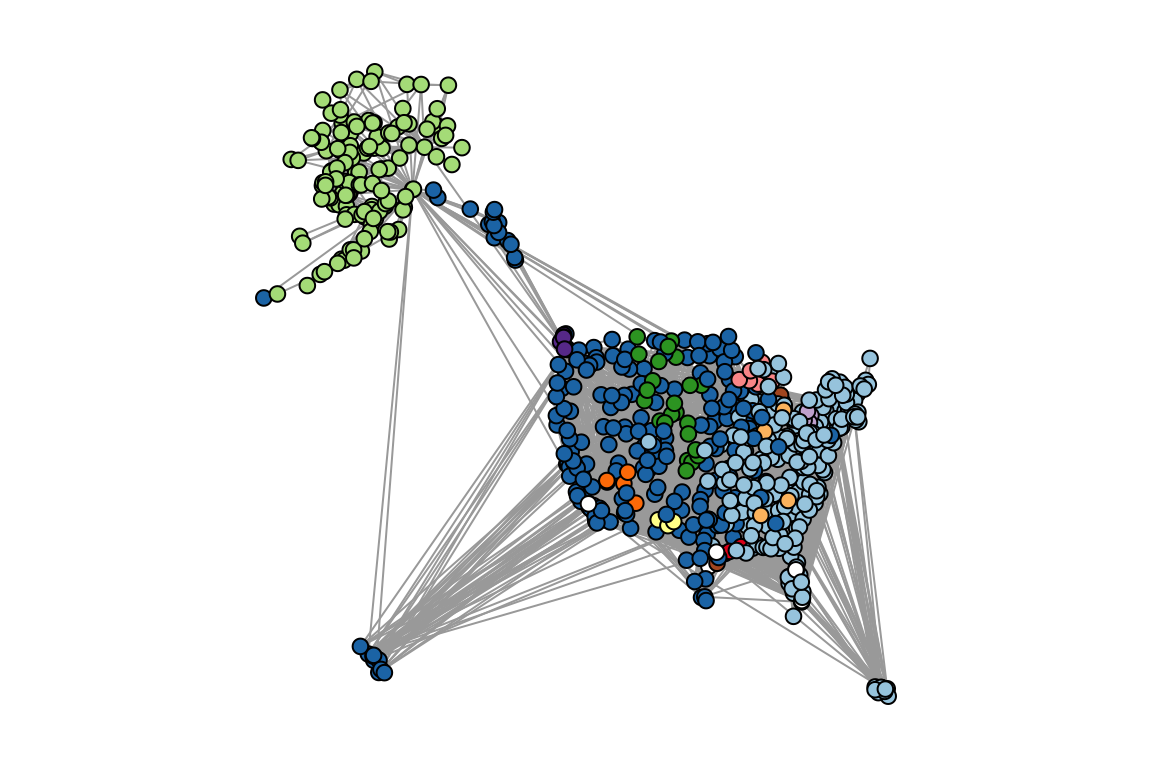
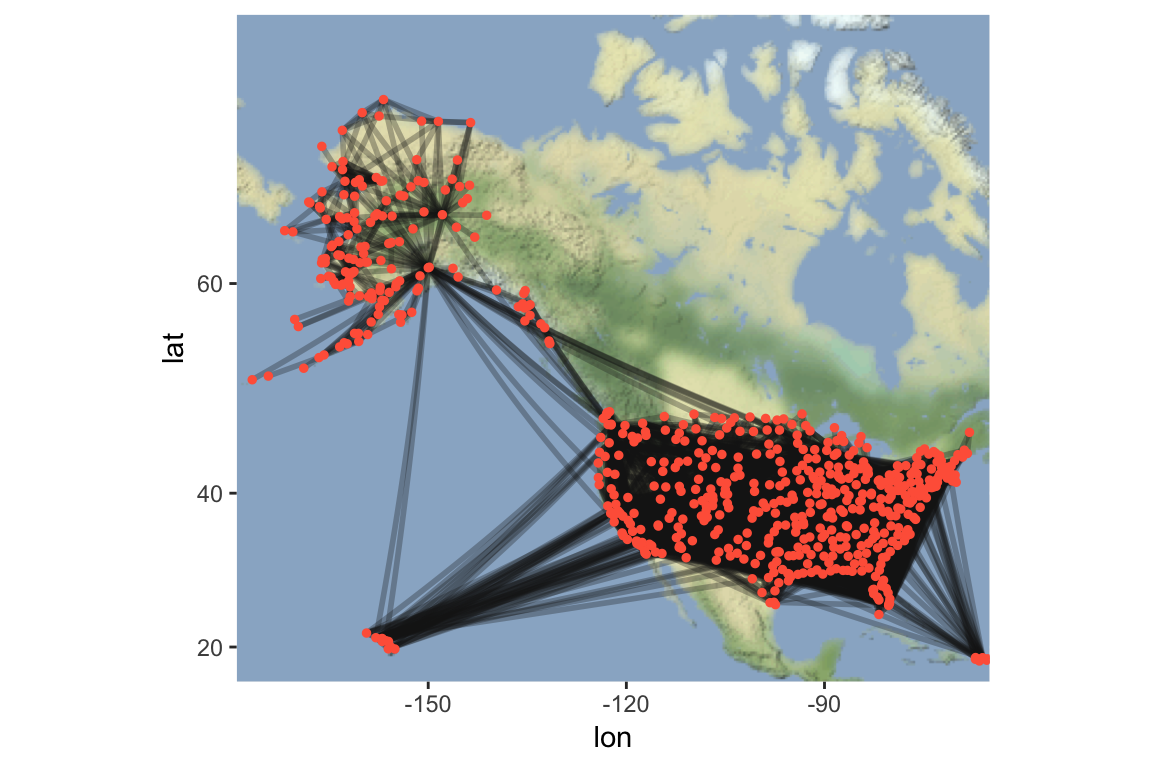
spatial network update

diff --git a/example_usairports.html b/example_usairports.html
@@ -201,7 +201,7 @@ $(document).ready(function () {
 
 <h1 class="title toc-ignore">Worked Example: Centrality and Community Structure of US Air Transportation Network</h1>
 <h4 class="author"><em>Dai Shizuka</em></h4>
-<h4 class="date"><em>updated 06/12/19</em></h4>
+<h4 class="date"><em>updated 06/16/19</em></h4>
 
 </div>
 
@@ -312,7 +312,18 @@ par(mar=c(1,1,1,1))
 plot(usair, layout=longlat, vertex.label=&quot;&quot;, vertex.size=3)</code></pre>
 <p><img src="example_usairports_files/figure-html/unnamed-chunk-10-1.png" width="576" style="display: block; margin: auto;" /></p>
 <p>You can see the outline of the US here. Now note how many airports there are in Alaska alone! This makes sense because there are so few roads in Alaska relative to landmass that flying is the main mode of transportation between remote towns. Thus, the airports in Alaska are not well connected in terms of the number of places you can get to by direct flight, but the hubs that connect Alaska to the rest of the U.S. (e.g., Anchorage and Seattle) are disproportionately important in terms of betweenness centrality.</p>
-<p>The main point of this exercise is to consider what different indices of centrality are measuring and make sure you consider the complex structure of the network so that you can make sense of what that index is telling you.</p>
+<p>Now, we can use the <code>popgraph</code> package to make this spatial network prettier by overlaying it on a map:</p>
+<pre class="r"><code>library(popgraph)
+library(ggmap)
+
+location = c( mean(V(usair)$long), mean(V(usair)$lat))
+map=get_stamenmap(location, bbox=c(left=-179, bottom=15, right=-65, top=75), zoom=2, source=&quot;stamen&quot;, maptype=&quot;terrain-background&quot;, filetype=&quot;png&quot;)
+
+p=ggmap(map)
+p = p + geom_edgeset(aes(x=long, y=lat), usair, colour=gray(0.1, 0.3), size=1) #plot will also include the network edges, in white
+p = p + geom_nodeset(aes(x=long, y=lat), usair, size=1, colour=&quot;tomato&quot;) #plot will also include the network nodes, color-coded by region
+p #plot color</code></pre>
+<p><img src="example_usairports_files/figure-html/unnamed-chunk-11-1.png" width="576" style="display: block; margin: auto;" /></p>
 <hr />
 </div>
 <div id="community-structure-in-the-u.s.-air-transportation-network" class="section level2">
@@ -329,7 +340,7 @@ fgmembership=membership(fg)
 colors.fg=c(brewer.pal(12, name=&quot;Paired&quot;), rep(&quot;white&quot;,2)) #first 12 colors from RColorBrewer, last 2 communities are white
 par(mar=c(1,1,1,1))
 plot(usair, layout=longlat, vertex.label=&quot;&quot;, vertex.color=colors.fg[fgmembership], vertex.size=5)</code></pre>
-<p><img src="example_usairports_files/figure-html/unnamed-chunk-12-1.png" width="576" style="display: block; margin: auto;" /></p>
+<p><img src="example_usairports_files/figure-html/unnamed-chunk-13-1.png" width="576" style="display: block; margin: auto;" /></p>
 <p>What you can see in these figures is that the U.S. transportation system is broken up into several communities that make some geographic sense: Alaska, West Coast/Hawaii, Eastern/Puerto Rico. There are also a few small, very local subnetworks like the Kenai Peninsula and Southern Alaska or the Northern Great Plains. If you look carefully, there are even a few small clusters that don’t make much geographic sense–some of these are subnetworks of private/corporate airports or Air Force bases.</p>
 <p>Guimerà et al. (2005) proposed that we can use this community structure to identify the roles that nodes play within and across their networks. They propose two measures in particular: Within-Community Degree (z) and Participation Coefficient (P). They define them as follows:</p>
 <p>The Within-community Degree of node <span class="math inline">\(i\)</span> is:</p>
@@ -360,7 +371,7 @@ p[i]=1-sum((tab/sum(tab))^2)
 dat=data.frame(name=V(usair)$name, z=z[match(V(usair)$name,names(z))], p=p)</code></pre>
 <p>Let’s plot the z-P phase-space, as in Figure 4a of Guimerà et al. (2005):</p>
 <pre class="r"><code>plot(dat$p, dat$z, pch=19, ylab=&quot;Within-Community Degree (z)&quot;, xlab=&quot;Participation Coefficient (p)&quot;)</code></pre>
-<p><img src="example_usairports_files/figure-html/unnamed-chunk-14-1.png" width="576" style="display: block; margin: auto;" /></p>
+<p><img src="example_usairports_files/figure-html/unnamed-chunk-15-1.png" width="576" style="display: block; margin: auto;" /></p>
 <p>In the paper, Guimerà and colleagues heuristically into several parts. Here is a simplified version of what they do:</p>
 <p><img src="assets/USair_pxz_colorsections.jpg" width="50%" style="display: block; margin: auto;" /></p>
 <p>Under this framework, we can identify several different types of roles.</p>
